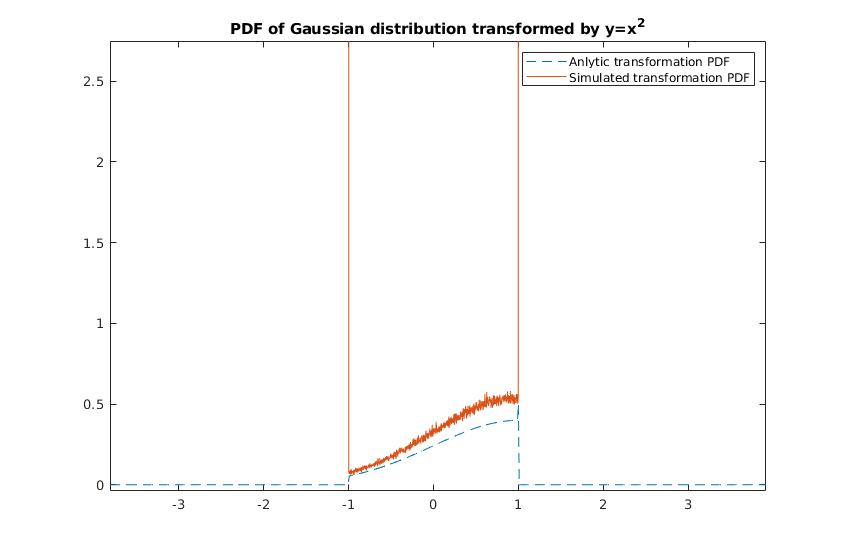
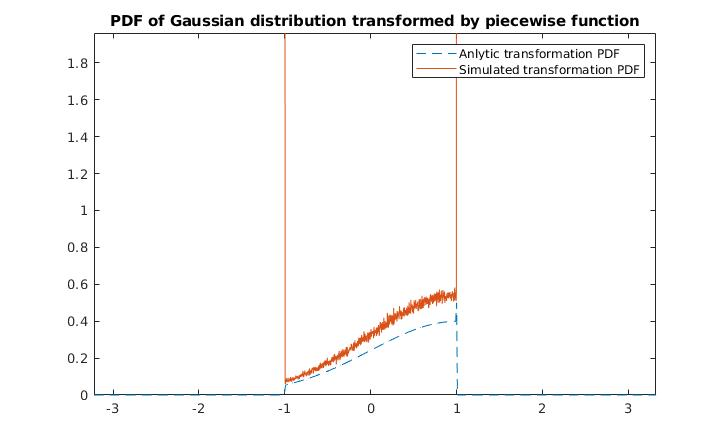
HW code 11, 12, 13

diff --git a/homework/hw_11_central_limit_theorem.m b/homework/hw_11_central_limit_theorem.m
@@ -1,0 +1,35 @@
+
+
+% -------------------
+% Simulate the transform
+
+num_datapoints = 1000000;
+figure;
+% title('PDF of average of N uniform [0; 1] random variables')
+title('PDF of average of N exponential (mean = 1) random variables')
+style= {'-','--','-.', '-d', '-+'};
+hold all
+
+for N = 1: 5
+
+% data = rand(N, num_datapoints); % uniform in [0,1]
+data = exprnd(1, N, num_datapoints);    % exponential with mean = 1
+
+transformed_data = mean(data, 1);
+
+nbins = 50;
+[num_in_bin, edges] = histcounts(transformed_data, nbins);
+x_vals = movmean(edges, 2, 'Endpoints','discard');
+
+simulated_transform = num_in_bin ./ trapz(x_vals, num_in_bin);
+
+
+legend_text = ['N = ', num2str(N)];
+plot(x_vals, simulated_transform, style{N}, 'MarkerSize', 4, 'DisplayName', legend_text);
+% axis([-2 50 0 10]);
+
+end
+
+hold off
+legend show
+

diff --git a/homework/hw_13_max_transform_of_uniform.m b/homework/hw_13_max_transform_of_uniform.m
@@ -1,0 +1,29 @@
+syms x y;
+
+% -------------------
+% Analytic transform
+analytic_pdf = piecewise(0 <= y <= 1, 2*y, y > 1 | y < 0, 0);
+
+figure;
+fplot(analytic_pdf, '--', 'MarkerSize', 10);
+axis([-2 4 0 4]);
+title('PDF of two uniform RVs transformed by y=max(x1, x2)')
+
+% -------------------
+% Simulate the transform
+% 
+num_datapoints = 1000000;
+data = rand(2, num_datapoints); % uniform in [0,1]
+
+transformed_data = max(data);
+
+nbins = 100;
+[num_in_bin, edges] = histcounts(transformed_data, nbins);
+x_vals = movmean(edges, 2, 'Endpoints','discard');
+
+simulated_pdf = num_in_bin ./ trapz(x_vals, num_in_bin);
+
+hold on
+plot(x_vals, simulated_pdf, 'MarkerSize', 10);
+% axis([-2 50 0 10]);
+legend('Anlytic transformation PDF', 'Simulated transformation PDF');

diff --git a/homework/hw_8_piecewise_transform_of_gauss.m b/homework/hw_8_piecewise_transform_of_gauss.m
@@ -40,7 +40,7 @@ analytic_piecewise_transform(idx) = [left_amplitude, right_amplitude];    % repl
 figure;
 plot(y_vals, analytic_piecewise_transform, '--', 'MarkerSize', 10);
 axis([-5 5 0 2]);
-title('PDF of Gaussian distribution transformed by y=x^2')
+title('PDF of Gaussian distribution transformed by piecewise function')
 
 % -------------------
 % Simulate the transform
